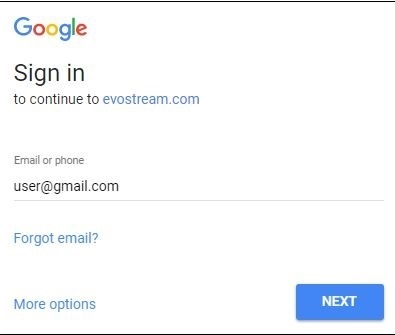
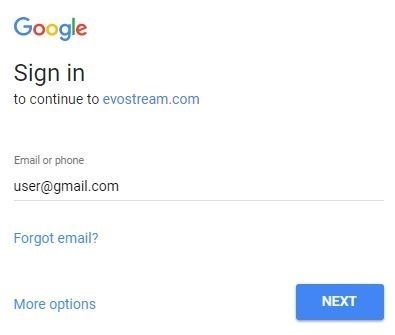
updates - removed border, remove emsdemo ++

Changed region(s): [[0.0, 0.9851, 1.0, 1.0]]

diff --git a/pages/api/launchProcess.md b/pages/api/launchProcess.md
@@ -15,13 +15,14 @@ Allows the user to launch an external process on the local machine. This can be 
 
 
 
-| Parameter Name |  Type   | Mandatory |              Default Value               | Description                              |
-| :------------: | :-----: | :-------: | :--------------------------------------: | ---------------------------------------- |
-| fullBinaryPath | string  |   true    |                  *null*                  | The path to the executable               |
-|   keepAlive    | boolean |   false   |                 1 *true*                 | If the process dies for any reason, the EMS will restart the external application when `keepAlive` is 1 |
-|   arguments    | string  |   false   |           *zero-length string*           | Complete list of arguments that need to be passed to the process, delimited by ESCAPED SPACES (“\ “) |
-|   groupName    | string  |   false   | *if not assigned, will create a random value process_group_xxx* | The group name assigned to the process   |
-| $[ENV]=[VALUE] | string  |   false   |           *zero-length string*           | Any number of environment variables that need to be set just before launching the process |
+|  Parameter Name  |  Type   | Mandatory |              Default Value               | Description                              |
+| :--------------: | :-----: | :-------: | :--------------------------------------: | ---------------------------------------- |
+|  fullBinaryPath  | string  |   true    |                  *null*                  | The path to the executable               |
+|    keepAlive     | boolean |   false   |                 1 *true*                 | If the process dies for any reason, the EMS will restart the external application when `keepAlive` is 1 |
+|    arguments     | string  |   false   |           *zero-length string*           | Complete list of arguments that need to be passed to the process, delimited by ESCAPED SPACES (“\ “) |
+|    groupName     | string  |   false   | *if not assigned, will create a random value process_group_xxx* | The group name assigned to the process   |
+|  $[ENV]=[VALUE]  | string  |   false   |           *zero-length string*           | Any number of environment variables that need to be set just before launching the process |
+| processKillTimer | integer |   false   |                    0                     | Will manually kill the process if it is still running after processKillTimer seconds of process execution |
 
 
 
@@ -51,19 +52,18 @@ The final parameter is an example for setting an environment variable (SAMPLE_E_
 
 ``` 
 {
-"data":{
-    "configId":2,
-    "ersip":"52.6.14.61",
-    "ersport":3535,
-    "keepAlive":true,
-    "name":"evostreamms",
-    "operationType":9,
-    "roomid":"testRoom",
-    "sslCert":"..\/config\/server.cert",
-    "sslKey":"..\/config\/server.key"
-},
-"description":"Started WebRTC Negotiation Service",
-"status":"SUCCESS"
+   "data":{
+      "$SAMPLE_E_VAR":"MyVal",   
+      "arguments":"10fps\ Stream1\ Stream1_10fps",
+      "configId":1,
+      "fullBinaryPath":"/home/ems/ffmpeg_preset.sh",
+      "groupName":"process_group_UHBqMT6C",
+      "keepAlive":true,
+      "operationType":6
+      "processKillTimer":0
+   },
+   "description":"Process enqueued for start",
+   "status":"SUCCESS"
 }
 ```
 
@@ -74,15 +74,19 @@ The final parameter is an example for setting an environment variable (SAMPLE_E_
 The JSON response contains the following details:
 
 - data – The data to parse.
+  - $[ENV]=[VALUE] – Any number of environment variables that need to be set just before launching the process
   - arguments – Complete list of arguments that need to be passed to the process
   - configID – The configuration ID for this command
   - fullBinaryPath – Full path to the binary that needs to be launched
   - groupName - The group name assigned to the process
   - keepAlive – If `keepAlive` is set to 1, the server will restart the process if it exits
   - operationType – The type of operation
-  - $[ENV]=[VALUE] – Any number of environment variables that need to be set just before launching the process
+  - processKillTimer – Will manually kill the process if it is still running after processKillTimer seconds of process execution
 - description – Describes the result of parsing/executing the command
 - status – **SUCCESS** if the command was parsed and executed successfully, **FAIL** if not.
 
 ------
 
+## Notes
+
+- If process has processKillTimer and keepAlive of true, the process will be called again after it was killed by the processKillTimer because of the keepAlive mechanism

diff --git a/pages/userguide/userguide_startems.md b/pages/userguide/userguide_startems.md
@@ -158,12 +158,32 @@ The evostreamms executable can be run with a few different options. The command 
 
 **Format:** evostreamms [OPTIONS][config_file_path]
 
-| Command                        | Function                                 |
-| ------------------------------ | ---------------------------------------- |
-| –help                          | Prints this help and exit.               |
-| –version                       | Prints the version and exit.             |
-| –use-implicit-console-appender | Adds extra logging at runtime, but is only effective when the server is started as a console application. This is particularly useful when the server starts and stops immediately for an unknown reason. It will allow you users to see if something is wrong, particularly with the config file. |
-| –daemon                        | Overrides the daemon setting inside the config file and forces the server to start in daemon mode. |
-| –uid=                          | Run the process with the specified user id. |
-| –gid=                          | Run the process with the specified group id. |
-| –pid=<pid_file>                | Create PID file. Works only if –daemon option is specified. |
+| Command                          | Function                                 |
+| -------------------------------- | ---------------------------------------- |
+| `–help`                          | Prints this help and exit.               |
+| `–version`                       | Prints the version and exit.             |
+| `–use-implicit-console-appender` | Adds extra logging at runtime, but is only effective when the server is started as a console application. This is particularly useful when the server starts and stops immediately for an unknown reason. It will allow you users to see if something is wrong, particularly with the config file. |
+| `–daemon`                        | Overrides the daemon setting inside the config file and forces the server to start in daemon mode. |
+| `–uid=`                          | Run the process with the specified user id. |
+| `–gid=`                          | Run the process with the specified group id. |
+| `–pid=<pid_file>`                | Create PID file. Works only if –daemon option is specified. |
+
+------
+
+## Notes
+
+- Starting EMS will also start the following:
+
+  - EMS Web Server
+  - EMS Web UI
+  - EMS Webservices
+
+- You can configure the startup processes in config.lua
+
+  - [runWebServer](userguide_configlua.html#runwebserver)
+
+  - [runWebUI](userguide_configlua.html#runwebui)
+
+  - [eventLogger](userguide_configlua.html#eventlogger)
+
+    

diff --git a/pages/userguide/userguide_login.md b/pages/userguide/userguide_login.md
@@ -35,20 +35,24 @@ If you already have your local account registered you will be redirected to logi
 
 1. Simply click on the **Log in with Facebook** link to log in
 
-![](images/userguide/login_fb.JPG)
+   ![](images/userguide/login_fb.JPG)
 
 
 
 2. You will ask to log in if you are not yet logged in to Facebook
+
 3. Facebook will prompt for application permission form, click **Continue** to proceed
 
-![](images/userguide/fb_allow.JPG)
+   ![](images/userguide/fb_allow.JPG)
 
 
 
 4. Facebook will prompt for application permission to post on user's timeline, <u>select the audience</u> in the drop down list then click **OK**
 
-![](images/userguide/fb_allowpost.JPG)
+   ![](images/userguide/fb_allowpost.JPG)
+
+   
+
 
 5. Facebook will prompt for the application permission for pages and group posts, <u>select what to allow</u> and click **OK**
 
@@ -67,7 +71,7 @@ If you already have your local account registered you will be redirected to logi
 
 1. Simply click on the **Log in with Google+** link to log in
 
-![](images/userguide/login_g+.jpg)
+   ![](images/userguide/login_g+.jpg)
 
 
 
@@ -88,8 +92,7 @@ If you already have your local account registered you will be redirected to logi
 
 ------
 
-##Notes
+## Notes
 
 - You can unlink your Facebook or Google+ account in Profile Page
 - Unlinking account in the UI will not remove the EMS Web UI entry in the user's Facebook account. Go to Facebook's *Settings > Apps* page to modify
-
